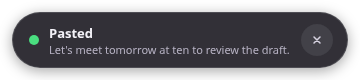
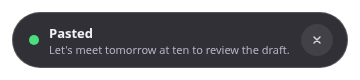
Fix tray quit on Windows, drop the overlay shadow
- app.quit() silently aborts when any window is closable: false
  (electron#5891): quit waits for every window to close and the overlay
  refuses, so "Quit Earheart" in the tray did nothing on Windows.
  Destroy the overlay in before-quit, which bypasses the closable check.
- Remove the pill's drop shadow entirely; even a tight one bands/halos
  on transparent windows. A slightly stronger border keeps the pill
  separated from whatever is behind it.

Changed region(s): [[0.0, 0.3, 0.9778, 0.95], [0.0917, 0.125, 0.8861, 0.15], [0.0306, 0.3, 0.0611, 0.425]]

diff --git a/main/windows.js b/main/windows.js
@@ -107,6 +107,18 @@ function getOverlay() {
   return overlayWindow && !overlayWindow.isDestroyed() ? overlayWindow : null;
 }
 
+// The overlay is closable: false, which makes app.quit() silently abort on
+// Windows (electron#5891): quit tries to close every window and the overlay
+// refuses. destroy() bypasses the closable check; call this from before-quit.
+function destroyOverlay() {
+  if (overlayHideTimer) {
+    clearTimeout(overlayHideTimer);
+    overlayHideTimer = null;
+  }
+  if (overlayWindow && !overlayWindow.isDestroyed()) overlayWindow.destroy();
+  overlayWindow = null;
+}
+
 function showOverlay() {
   const win = getOverlay();
   if (!win) return;
@@ -210,6 +222,7 @@ function sendToSettings(channel, payload) {
 module.exports = {
   createOverlay,
   getOverlay,
+  destroyOverlay,
   showOverlay,
   hideOverlay,
   sendToOverlay,

diff --git a/main/main.js b/main/main.js
@@ -83,6 +83,13 @@ function main() {
   // Tray app: stay alive when all windows are closed.
   app.on("window-all-closed", () => {});
 
+  // The overlay is closable: false, which blocks app.quit() (it waits for
+  // every window to close and the overlay refuses; electron#5891). Destroy
+  // it first so quitting from the tray actually exits.
+  app.on("before-quit", () => {
+    windows.destroyOverlay();
+  });
+
   app.on("will-quit", () => {
     hotkeys.unregisterAll();
     serverManager.stop();

diff --git a/renderer/overlay.css b/renderer/overlay.css
@@ -26,9 +26,9 @@ body {
   padding: 0 14px 0 16px;
   border-radius: 28px;
   background: rgba(22, 20, 28, 0.88);
-  border: 1px solid rgba(255, 255, 255, 0.14);
-  /* Tight shadow: large soft shadows band badly on transparent windows. */
-  box-shadow: 0 3px 14px rgba(0, 0, 0, 0.35);
+  /* No drop shadow: soft shadows band/halo badly on transparent windows.
+     The border alone separates the pill from whatever is behind it. */
+  border: 1px solid rgba(255, 255, 255, 0.18);
   color: #f3f1f7;
   cursor: grab;
   /* Hidden until the main process sends overlay:show, so the window can